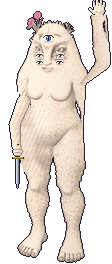
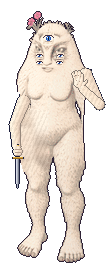
The Blossom: her blessing hand bent out in front of her chest, fingers up at an angle
Battle picture and hall frames: upper arm down her side, the forearm across
in front of her chest, an open hand raised at an angle; the casting frame
glows round the new hand; the duel's hand glow follows it.

Claude-Session: https://claude.ai/code/session_01JpLHzsYAvEKzmccr94t7N9

Changed region(s): [[0.6429, 0.0, 0.9911, 0.4242]]

diff --git a/android/app/src/main/java/app/foxbox/ui/HallScreen.kt b/android/app/src/main/java/app/foxbox/ui/HallScreen.kt
@@ -1590,7 +1590,7 @@ class HallScreen(c: Context) : PixelView(c) {
             override fun buzz() { performHapticFeedback(HapticFeedbackConstants.KEYBOARD_TAP) }
             override val power get() = powerK
             override fun backdrop(time: Float) { drawRoom(time); room.props.forEach { drawProp(it, time) } }
-        }, queen = her, handX = 0.877f, handY = 0.05f)
+        }, queen = her, handX = 0.70f, handY = 0.28f)
         sfx.play(HallSfx.S.DUEL); sfx.rumbleBig()
     }
 

diff --git a/android/art/fix3.py b/android/art/fix3.py
@@ -1,0 +1,74 @@
+import math
+from PIL import Image
+src=Image.open('duel_blossom.png').convert('RGBA').load()
+im=Image.open('duel_blossom_fixed2.png').convert('RGBA'); px=im.load(); W,H=im.size
+def lum(c): return 0.3*c[0]+0.59*c[1]+0.11*c[2]
+body=sorted([src[x,y] for x in range(40,72) for y in range(140,175) if src[x,y][3]>200 and lum(src[x,y])>120], key=lum)
+FUR=[tuple(int(c*0.8) for c in body[int(len(body)*0.02)][:3])]+[body[int(len(body)*k)][:3] for k in (0.05,0.35,0.7,0.97)]
+OUT=(26,30,60,255); mean=sum(lum(c) for c in body)/len(body)
+def shade(t):
+    t=max(0,min(1,t)); f=t*(len(FUR)-1); i=int(f); u=f-i; a=FUR[i]; b=FUR[min(i+1,len(FUR)-1)]
+    return tuple(int(a[k]+(b[k]-a[k])*u) for k in range(3))
+def fur(x,y,light):
+    c=shade(light); s=src[40+(x*7+y*3)%30, 140+(y*5+x)%33]; d=max(-9,min(9,(lum(s)-mean)*0.5))
+    return (max(0,min(255,int(c[0]+d))),max(0,min(255,int(c[1]+d))),max(0,min(255,int(c[2]+d))),255)
+def cap(x,y,a,b,r0,r1):
+    vx=b[0]-a[0]; vy=b[1]-a[1]; ll=vx*vx+vy*vy
+    t=max(0,min(1,((x-a[0])*vx+(y-a[1])*vy)/ll)); cx=a[0]+vx*t; cy=a[1]+vy*t; r=r0+(r1-r0)*t
+    d=math.hypot(x-cx,y-cy)
+    if d>r: return None
+    # lit from the upper left
+    nx=(x-cx)/r; ny=(y-cy)/r
+    return 0.78-0.32*nx-0.2*ny
+# 1. the raised arm, gone; her shoulder's outline redrawn
+for y in range(0,90):
+    edge = 89 if y<66 else 92 if y<78 else 95
+    for x in range(edge,W): px[x,y]=(0,0,0,0)
+for y in range(40,92):
+    xs=[x for x in range(W) if px[x,y][3]>200]
+    if not xs: continue
+    r=max(xs)
+    if lum(px[r,y])>90: px[r,y]=OUT
+# 2. the arm: down at her side to the elbow, the forearm across in front of her chest, the hand raised at an angle
+SH=(85,74); EL=(99,104); WR=(82,88)
+def paint(mask, over_ok):
+    for (x,y),v in mask.items(): px[x,y]=fur(x,y,v)
+    for (x,y) in list(mask):
+        for dx,dy in ((1,0),(-1,0),(0,1),(0,-1)):
+            q=(x+dx,y+dy)
+            if q in mask or not (0<=q[0]<W and 0<=q[1]<H): continue
+            px[q[0],q[1]]=OUT if px[q[0],q[1]][3]==0 else (*shade(0.05),255)
+upper={}
+for y in range(60,116):
+    for x in range(70,W):
+        r=cap(x,y,SH,EL,6.0,5.0)
+        if r is not None: upper[(x,y)]=r*0.92
+fore={}
+for y in range(60,116):
+    for x in range(60,W):
+        r=cap(x,y,EL,WR,4.6,3.6)
+        if r is not None: fore[(x,y)]=r
+for y in range(62,94):
+    for x in range(62,92):
+        e=((x-78)/4.4)**2+((y-82.5)/4.6)**2
+        v=None
+        if e<=1: v=0.86-0.3*((x-78)/4.4)-0.15*((y-82.5)/4.6)
+        for (fx,fy,tx,ty) in ((75.2,79.5,72.6,73.0),(77.3,78.4,75.6,71.2),(79.4,78.6,78.8,71.6),(81.2,80.2,81.8,74.4),(82.4,84.4,85.8,81.0)):
+            r=cap(x,y,(fx,fy),(tx,ty),1.4,1.15)
+            if r is not None: v=r if v is None else max(v,r)
+        if v is not None: fore[(x,y)]=v
+paint(upper, True); paint(fore, True)
+mask=dict(upper); mask.update(fore)
+# leftovers of the old arm: stray outline beside her side, a speck up top
+for y in range(0,124):
+    for x in range(84,W):
+        if (x,y) in mask: continue
+        c=px[x,y]
+        if c[3]==0: continue
+        if y<22 or (lum(c)<110 and all(px[x-k,y][3]==0 for k in (1,2) if x-k>=0) and not any((x+dx,y+dy) in mask for dx in (-1,0,1) for dy in (-1,0,1))): px[x,y]=(0,0,0,0)
+# the line between the hand and the wrist, finger gaps, a palm crease
+for (x,y) in ((74,76),(76,75),(78,75),(80,76),(76,80),(79,81),(77,84)):
+    if (x,y) in mask: px[x,y]=(*shade(0.25),255)
+im.save('duel_blossom_fixed3.png')
+bg=Image.new('RGBA',im.size,(220,220,235,255)); bg.alpha_composite(im); bg.resize((W*3,H*3),Image.NEAREST).save('pd_fixed3.png')
+print('hand at', 78/W, 74/H)

diff --git a/android/art/fixhall3.py b/android/art/fixhall3.py
@@ -1,0 +1,42 @@
+from PIL import Image
+im=Image.open('hall_blossom_fixed2.png').convert('RGBA'); px=im.load()
+def lum(c): return 0.3*c[0]+0.59*c[1]+0.11*c[2]
+def headtop(ox):
+    for y in range(72):
+        xs=[x for x in range(ox,ox+42) if px[x,y][3]>200]
+        if xs: return (sum(xs)//len(xs)-ox, y)
+h0=headtop(0)
+for f in range(6):
+    ox=f*72
+    hx,hy=headtop(ox); dx=hx-h0[0]; dy=hy-h0[1]
+    cell=[(x,y) for x in range(ox,ox+72) for y in range(72) if px[x,y][3]>200]
+    furs=sorted([px[x,y] for (x,y) in cell if lum(px[x,y])>150 and abs(px[x,y][0]-px[x,y][2])<60], key=lum)
+    LIGHT=furs[int(len(furs)*0.85)]; MIDC=furs[int(len(furs)*0.45)]; DARKC=furs[int(len(furs)*0.1)]
+    OUT=min((px[x,y] for (x,y) in cell), key=lum)
+    X=lambda x: ox+x+dx; Y=lambda y: y+dy
+    # the raised arm (and its glow, on the casting frame), gone
+    for y in range(0,Y(33)):
+        for x in range(X(44) if y>=Y(22) else X(42),ox+72): px[x,y]=(0,0,0,0)
+    for y in range(0,Y(14)):
+        for x in range(X(36),ox+72):
+            c=px[x,y]
+            if c[3]<255 or (c[1]>c[0] and c[1]>c[2]): px[x,y]=(0,0,0,0)
+    # her shoulder's outline
+    for y in range(Y(18),Y(34)):
+        xs=[x for x in range(ox,ox+72) if px[x,y][3]>200]
+        if xs and lum(px[max(xs),y])>90: px[max(xs)+1,y]=OUT
+    def put(x,y,c): px[X(x),Y(y)]=c
+    # upper arm down her side to the elbow
+    for y in range(26,39):
+        put(43,y,LIGHT); put(44,y,MIDC); put(45,y,DARKC); put(46,y,OUT)
+    put(43,39,MIDC); put(44,39,MIDC); put(45,39,OUT); put(43,40,OUT); put(44,40,OUT)
+    # the forearm, up and across in front of her chest
+    for k,(x,y) in enumerate([(42,38),(41,37),(40,36),(39,35),(38,34)]):
+        put(x,y,LIGHT); put(x,y+1,MIDC); put(x,y+2,OUT)
+    # the open hand at her chest, fingers up at an angle
+    for (x,y) in [(35,31),(36,31),(37,31),(35,32),(36,32),(37,32),(36,33),(37,33)]: put(x,y,LIGHT)
+    for (x,y) in [(34,30),(36,29),(38,30)]: put(x,y,LIGHT); put(x,y-1,OUT)
+    for (x,y) in [(34,31),(34,32),(38,31),(38,32),(35,33),(35,30),(37,30)]: put(x,y,OUT if (x,y) in [(34,32),(38,32),(35,33)] else MIDC)
+im.save('hall_blossom_fixed3.png')
+c=im.crop((0,0,72*6,72)); bg=Image.new('RGBA',c.size,(120,170,90,255)); bg.alpha_composite(c); bg.resize((c.width*4,c.height*4),Image.NEAREST).save('ph_fixed3.png')
+print('ok')
